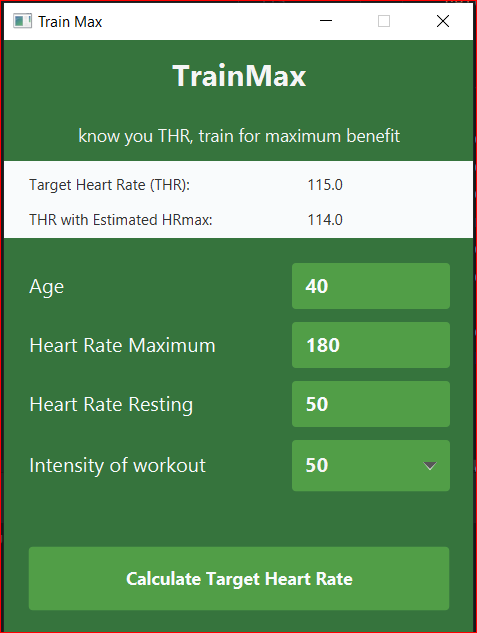
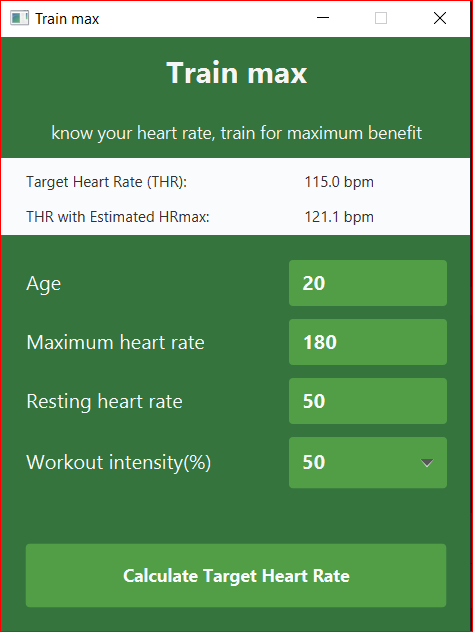
refactor project folder, improve labels and docs

diff --git a/src/main/java/com/trainmax/Trainmax.java b/src/main/java/com/trainmax/Trainmax.java
@@ -1,9 +1,8 @@
-package com.fitnesstracker;
+package com.trainmax;
 
 import javafx.application.Application;
 import javafx.event.ActionEvent;
 import javafx.event.EventHandler;
-import javafx.fxml.FXMLLoader;
 import javafx.geometry.Insets;
 import javafx.geometry.Pos;
 import javafx.scene.Scene;
@@ -11,13 +10,16 @@ import javafx.scene.control.Button;
 import javafx.scene.control.ComboBox;
 import javafx.scene.control.Label;
 import javafx.scene.control.TextField;
-import javafx.scene.layout.*;
+import javafx.scene.layout.ColumnConstraints;
+import javafx.scene.layout.GridPane;
+import javafx.scene.layout.StackPane;
+import javafx.scene.layout.VBox;
 import javafx.stage.Stage;
 
 import java.io.IOException;
 import java.util.Objects;
 
-public class FitnessTracker extends Application {
+public class Trainmax extends Application {
 
     private static final int APP_WIDTH = 375;
     private static final int APP_HEIGHT = 475;
@@ -29,7 +31,7 @@ public class FitnessTracker extends Application {
     public void start(Stage stage) throws IOException {
         Scene scene = createScene();
         scene.getStylesheets().add(Objects.requireNonNull(getClass().getResource("style.css")).toExternalForm());
-        stage.setTitle("Train Max");
+        stage.setTitle("Train max");
         stage.setScene(scene);
         stage.setResizable(false);
         stage.show();
@@ -39,12 +41,12 @@ public class FitnessTracker extends Application {
         VBox box = new VBox();
         box.getStyleClass().add("body");
 
-        Label appLabel = new Label("TrainMax");
+        Label appLabel = new Label("Train max");
         appLabel.setAlignment(Pos.CENTER);
         appLabel.setMaxWidth(Double.MAX_VALUE);
         appLabel.getStyleClass().add("app-label");
 
-        Label description = new Label("know you THR, train for maximum benefit");
+        Label description = new Label("know your heart rate, train for maximum benefit");
         description.setAlignment(Pos.CENTER);
         description.setMaxWidth(Double.MAX_VALUE);
         description.getStyleClass().add("app-description");
@@ -66,9 +68,9 @@ public class FitnessTracker extends Application {
                 double HRrest = Double.valueOf(HRrestValue.getText());
                 int intense = Integer.valueOf(intensities.getValue());
 
-                ResultModel result = FitnessTrackerController.calculateTHR(athleteAge, HRmax, HRrest, intense);
-                normalTHRValue.setText(Double.valueOf(result.getThrUnestimated()).toString());
-                estimatedTHROutputValue.setText(Double.valueOf(result.getThrEstimated()).toString());
+                ResultModel result = TrainmaxController.calculateTHR(athleteAge, HRmax, HRrest, intense);
+                normalTHRValue.setText(Double.valueOf(result.getThrUnestimated()).toString() + " bpm");
+                estimatedTHROutputValue.setText(Double.valueOf(result.getThrEstimated()).toString() + " bpm");
             }
         });
 
@@ -125,26 +127,26 @@ public class FitnessTracker extends Application {
 
         Label ageLabel = new Label("Age");
         ageLabel.getStyleClass().add("property-label");
-        age = new TextField("40");
+        age = new TextField("20");
         age.getStyleClass().add("property-value-label");
 
-        Label HRmaxLabel = new Label("Heart Rate Maximum");
+        Label HRmaxLabel = new Label("Maximum heart rate");
         HRmaxLabel.getStyleClass().add("property-label");
         HRmaxValue = new TextField("180");
         HRmaxValue.getStyleClass().add("property-value-label");
 
-        Label HRrestLabel = new Label("Heart Rate Resting");
+        Label HRrestLabel = new Label("Resting heart rate");
         HRrestLabel.getStyleClass().add("property-label");
         HRrestValue = new TextField("50");
         HRrestValue.getStyleClass().add("property-value-label");
 
-        Label intensityLabel = new Label("Intensity of workout");
+        Label intensityLabel = new Label("Workout intensity(%)");
         intensityLabel.getStyleClass().add("property-label");
         intensities = new ComboBox<>();
         intensities.setMaxWidth(Double.MAX_VALUE);
         intensities.setMinHeight(40);
         intensities.getStyleClass().add("text-field");
-        intensities.getItems().addAll(FitnessTrackerController.getIntensities());
+        intensities.getItems().addAll(TrainmaxController.getIntensities());
         intensities.setValue(intensities.getItems().get(0));
 
         gridPane.addRow(0, ageLabel, age);

diff --git a/src/main/java/com/trainmax/TrainmaxController.java b/src/main/java/com/trainmax/TrainmaxController.java
@@ -1,13 +1,10 @@
-package com.fitnesstracker;
-
-import javafx.fxml.FXML;
-import javafx.scene.control.Label;
+package com.trainmax;
 
 import java.math.RoundingMode;
 import java.text.DecimalFormat;
 import java.util.ArrayList;
 
-public class FitnessTrackerController {
+public class TrainmaxController {
 
     public static ArrayList<String> getIntensities() {
         ArrayList<String> intense = new ArrayList<>();

diff --git a/src/main/java/module-info.java b/src/main/java/module-info.java
@@ -1,8 +1,8 @@
-module com.fitnesstracker {
+module com.trainmax {
     requires javafx.controls;
     requires javafx.fxml;
 
 
-    opens com.fitnesstracker to javafx.fxml;
-    exports com.fitnesstracker;
+    opens com.trainmax to javafx.fxml;
+    exports com.trainmax;
 }

diff --git a/src/main/java/com/trainmax/ResultModel.java b/src/main/java/com/trainmax/ResultModel.java
@@ -1,4 +1,4 @@
-package com.fitnesstracker;
+package com.trainmax;
 
 public class ResultModel {
     private final double unestimated, estimated;

diff --git a/README.md b/README.md
@@ -1,4 +1,5 @@
-# TrainMax
+# Train max
+**know your heart rate, train for maximum benefit**
 
 ###### Target Heart Rate (THR)
 A desired range of heart rate reached during aerobic exercise which enables one's heart and 
